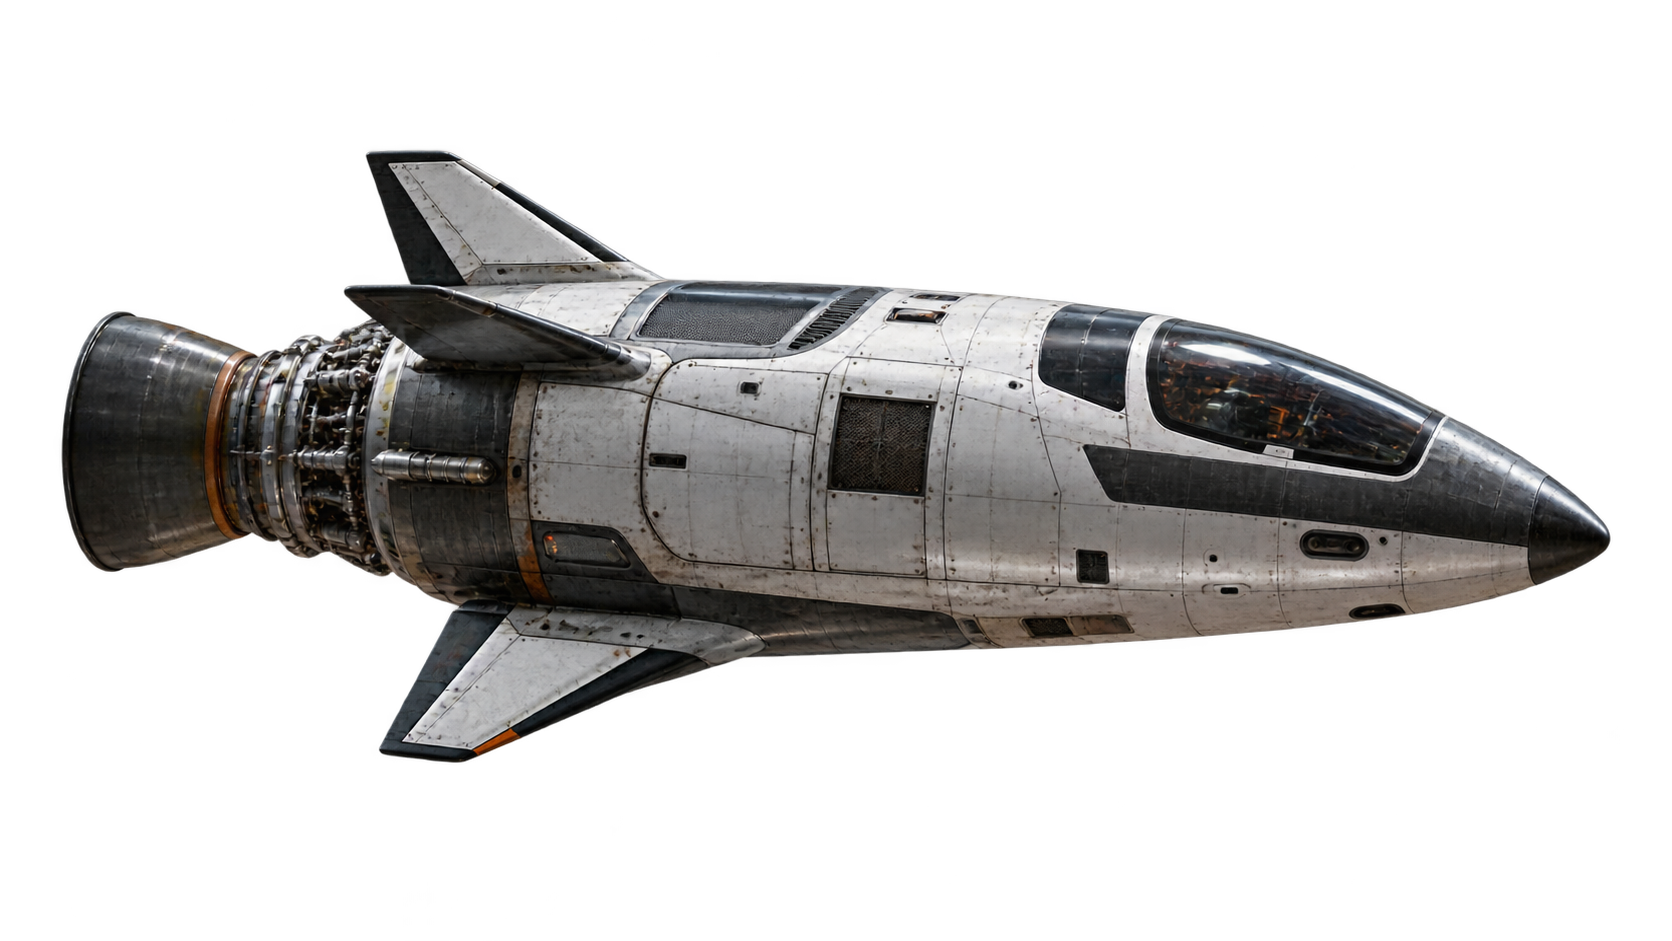
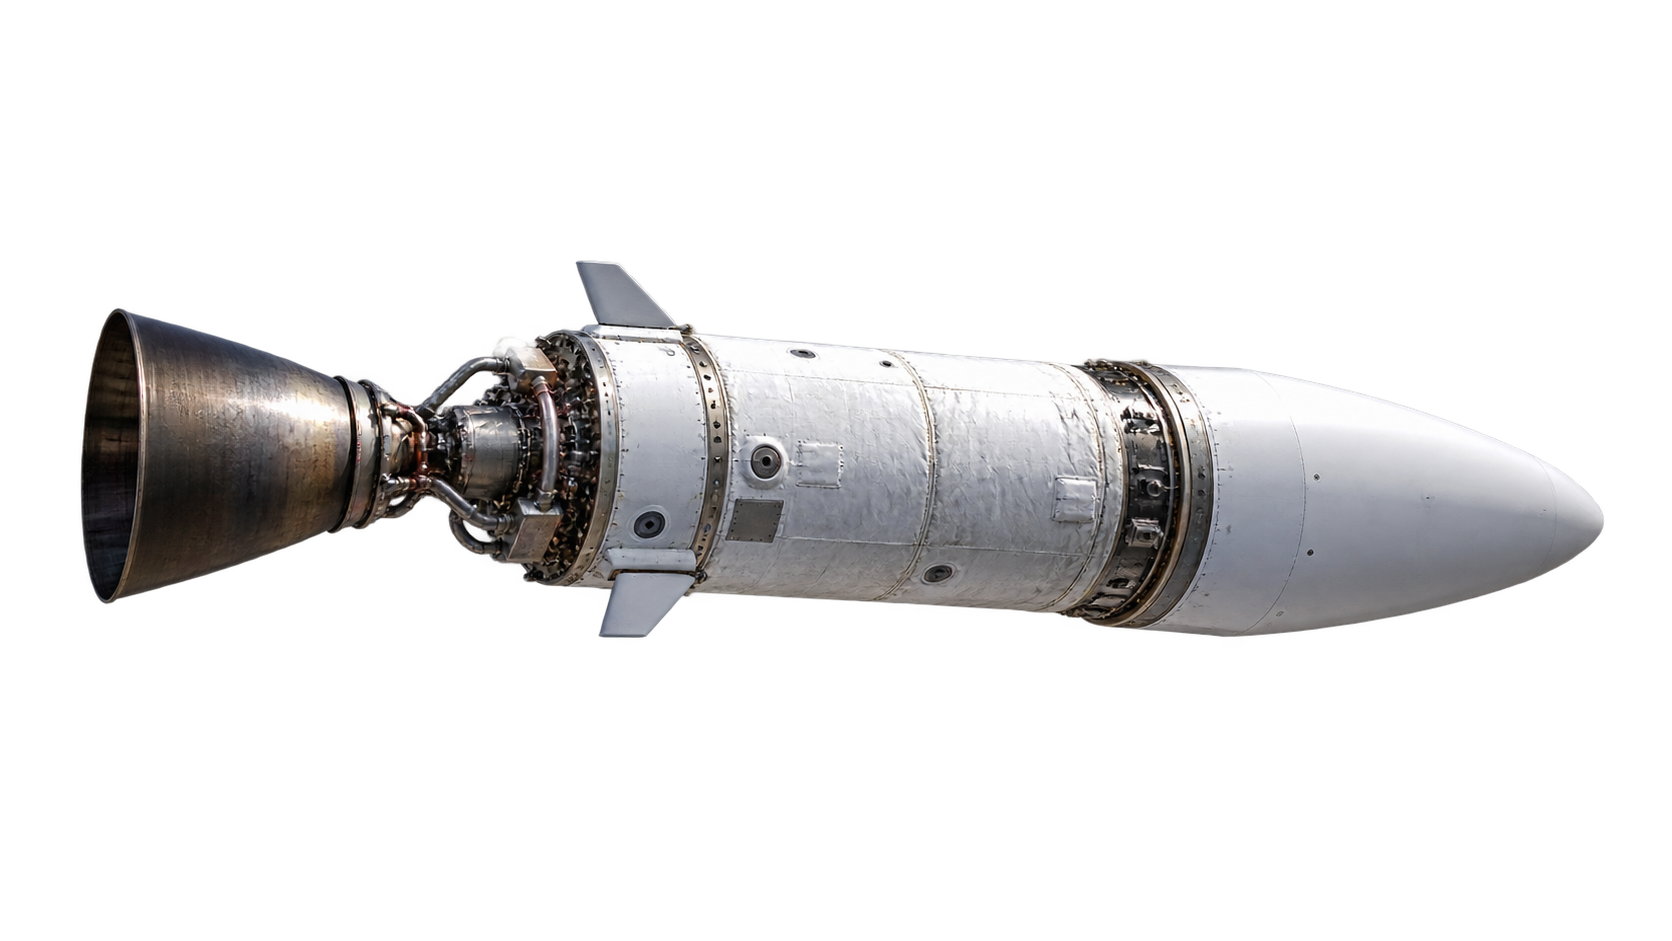
Add login space animation and improve rocket

Changed region(s): [[0.0311, 0.1541, 0.9641, 0.8321]]

diff --git a/src/index.css b/src/index.css
@@ -146,6 +146,11 @@ body {
   );
 }
 
+.orbital-space-traffic-login {
+  inset: 0;
+  opacity: 0.62;
+}
+
 .orbital-flight {
   position: absolute;
   left: 0;
@@ -171,7 +176,7 @@ body {
 .orbital-flight-satellite-one {
   top: 10%;
   opacity: 0;
-  animation: orbital-satellite-east 56s linear infinite;
+  animation: orbital-satellite-east 40s linear infinite;
 }
 
 .orbital-flight-satellite-two {
@@ -179,7 +184,7 @@ body {
   right: 0;
   left: auto;
   opacity: 0;
-  animation: orbital-satellite-west 56s linear infinite;
+  animation: orbital-satellite-west 40s linear infinite;
 }
 
 .orbital-flight-satellite-two svg {
@@ -195,12 +200,12 @@ body {
 .orbital-flight-spacecraft {
   top: 13%;
   opacity: 0;
-  animation: orbital-spacecraft-pass 56s linear infinite;
+  animation: orbital-spacecraft-pass 40s linear infinite;
 }
 
 .orbital-realistic-spacecraft {
   position: relative;
-  width: clamp(18rem, 22vw, 28rem);
+  width: clamp(12rem, 15vw, 18.5rem);
   filter: drop-shadow(0 0 16px rgba(114, 172, 255, 0.2));
 }
 
@@ -306,7 +311,7 @@ body {
   right: 0;
   left: auto;
   opacity: 0;
-  animation: orbital-asteroid-pass 56s linear infinite;
+  animation: orbital-asteroid-pass 40s linear infinite;
 }
 
 .orbital-realistic-asteroid {
@@ -377,16 +382,22 @@ body {
   27% {
     opacity: 0.86;
   }
-  34% {
-    transform: translate3d(27vw, 4vh, 0) rotate(-3deg) scale(0.88);
+  29% {
+    transform: translate3d(14vw, 3vh, 0) rotate(-10deg) scale(0.82);
   }
-  41% {
+  34% {
+    transform: translate3d(37vw, 18vh, 0) rotate(8deg) scale(0.87);
+  }
+  39% {
     opacity: 0.9;
-    transform: translate3d(66vw, 15vh, 0) rotate(4deg) scale(0.98);
+    transform: translate3d(61vw, -1vh, 0) rotate(-9deg) scale(0.92);
+  }
+  44% {
+    transform: translate3d(82vw, 16vh, 0) rotate(7deg) scale(0.97);
   }
   48% {
     opacity: 0;
-    transform: translate3d(calc(100vw + 28rem), -1vh, 0) rotate(-5deg) scale(1.06);
+    transform: translate3d(calc(100vw + 20rem), 5vh, 0) rotate(-4deg) scale(1.02);
   }
   48.01%,
   100% {

diff --git a/src/pages/Login.jsx b/src/pages/Login.jsx
@@ -10,6 +10,7 @@ import {
   updateProfile,
 } from "firebase/auth";
 import PasswordRequirements from "../components/PasswordRequirements";
+import SpaceTraffic from "../components/SpaceTraffic";
 import {
   getPasswordPolicyError,
   isPasswordValid,
@@ -239,8 +240,9 @@ function Login() {
       />
       <div className="pointer-events-none fixed inset-0 bg-[linear-gradient(90deg,rgba(1,5,15,0.28),rgba(1,5,15,0.06)_45%,rgba(1,5,15,0.38))]" />
       <div className="pointer-events-none fixed inset-0 bg-[radial-gradient(circle_at_center,transparent_25%,rgba(1,4,13,0.5)_100%)]" />
+      <SpaceTraffic variant="login" />
 
-      <div className="relative mx-auto h-full min-h-0 w-full max-w-[1600px] p-0 sm:p-5 lg:p-8">
+      <div className="relative z-10 mx-auto h-full min-h-0 w-full max-w-[1600px] p-0 sm:p-5 lg:p-8">
         <div className="grid h-full min-h-0 overflow-hidden border-white/15 bg-[#030817]/30 shadow-[0_40px_120px_rgba(0,0,0,0.5)] sm:rounded-[30px] sm:border lg:grid-cols-[1.08fr_0.92fr]">
           <section className="relative hidden min-h-0 px-14 py-12 lg:flex lg:flex-col xl:px-20 xl:py-16">
             <div className="h-[104px] overflow-hidden">

diff --git a/src/components/SpaceTraffic.jsx b/src/components/SpaceTraffic.jsx
@@ -27,9 +27,12 @@ const Spacecraft = () => (
   </div>
 );
 
-function SpaceTraffic() {
+function SpaceTraffic({ variant = "app" }) {
   return (
-    <div className="orbital-space-traffic" aria-hidden="true">
+    <div
+      className={`orbital-space-traffic ${variant === "login" ? "orbital-space-traffic-login" : ""}`}
+      aria-hidden="true"
+    >
       <div className="orbital-flight orbital-flight-satellite-one">
         <Satellite className="orbital-realistic-satellite orbital-realistic-satellite-near" />
       </div>
